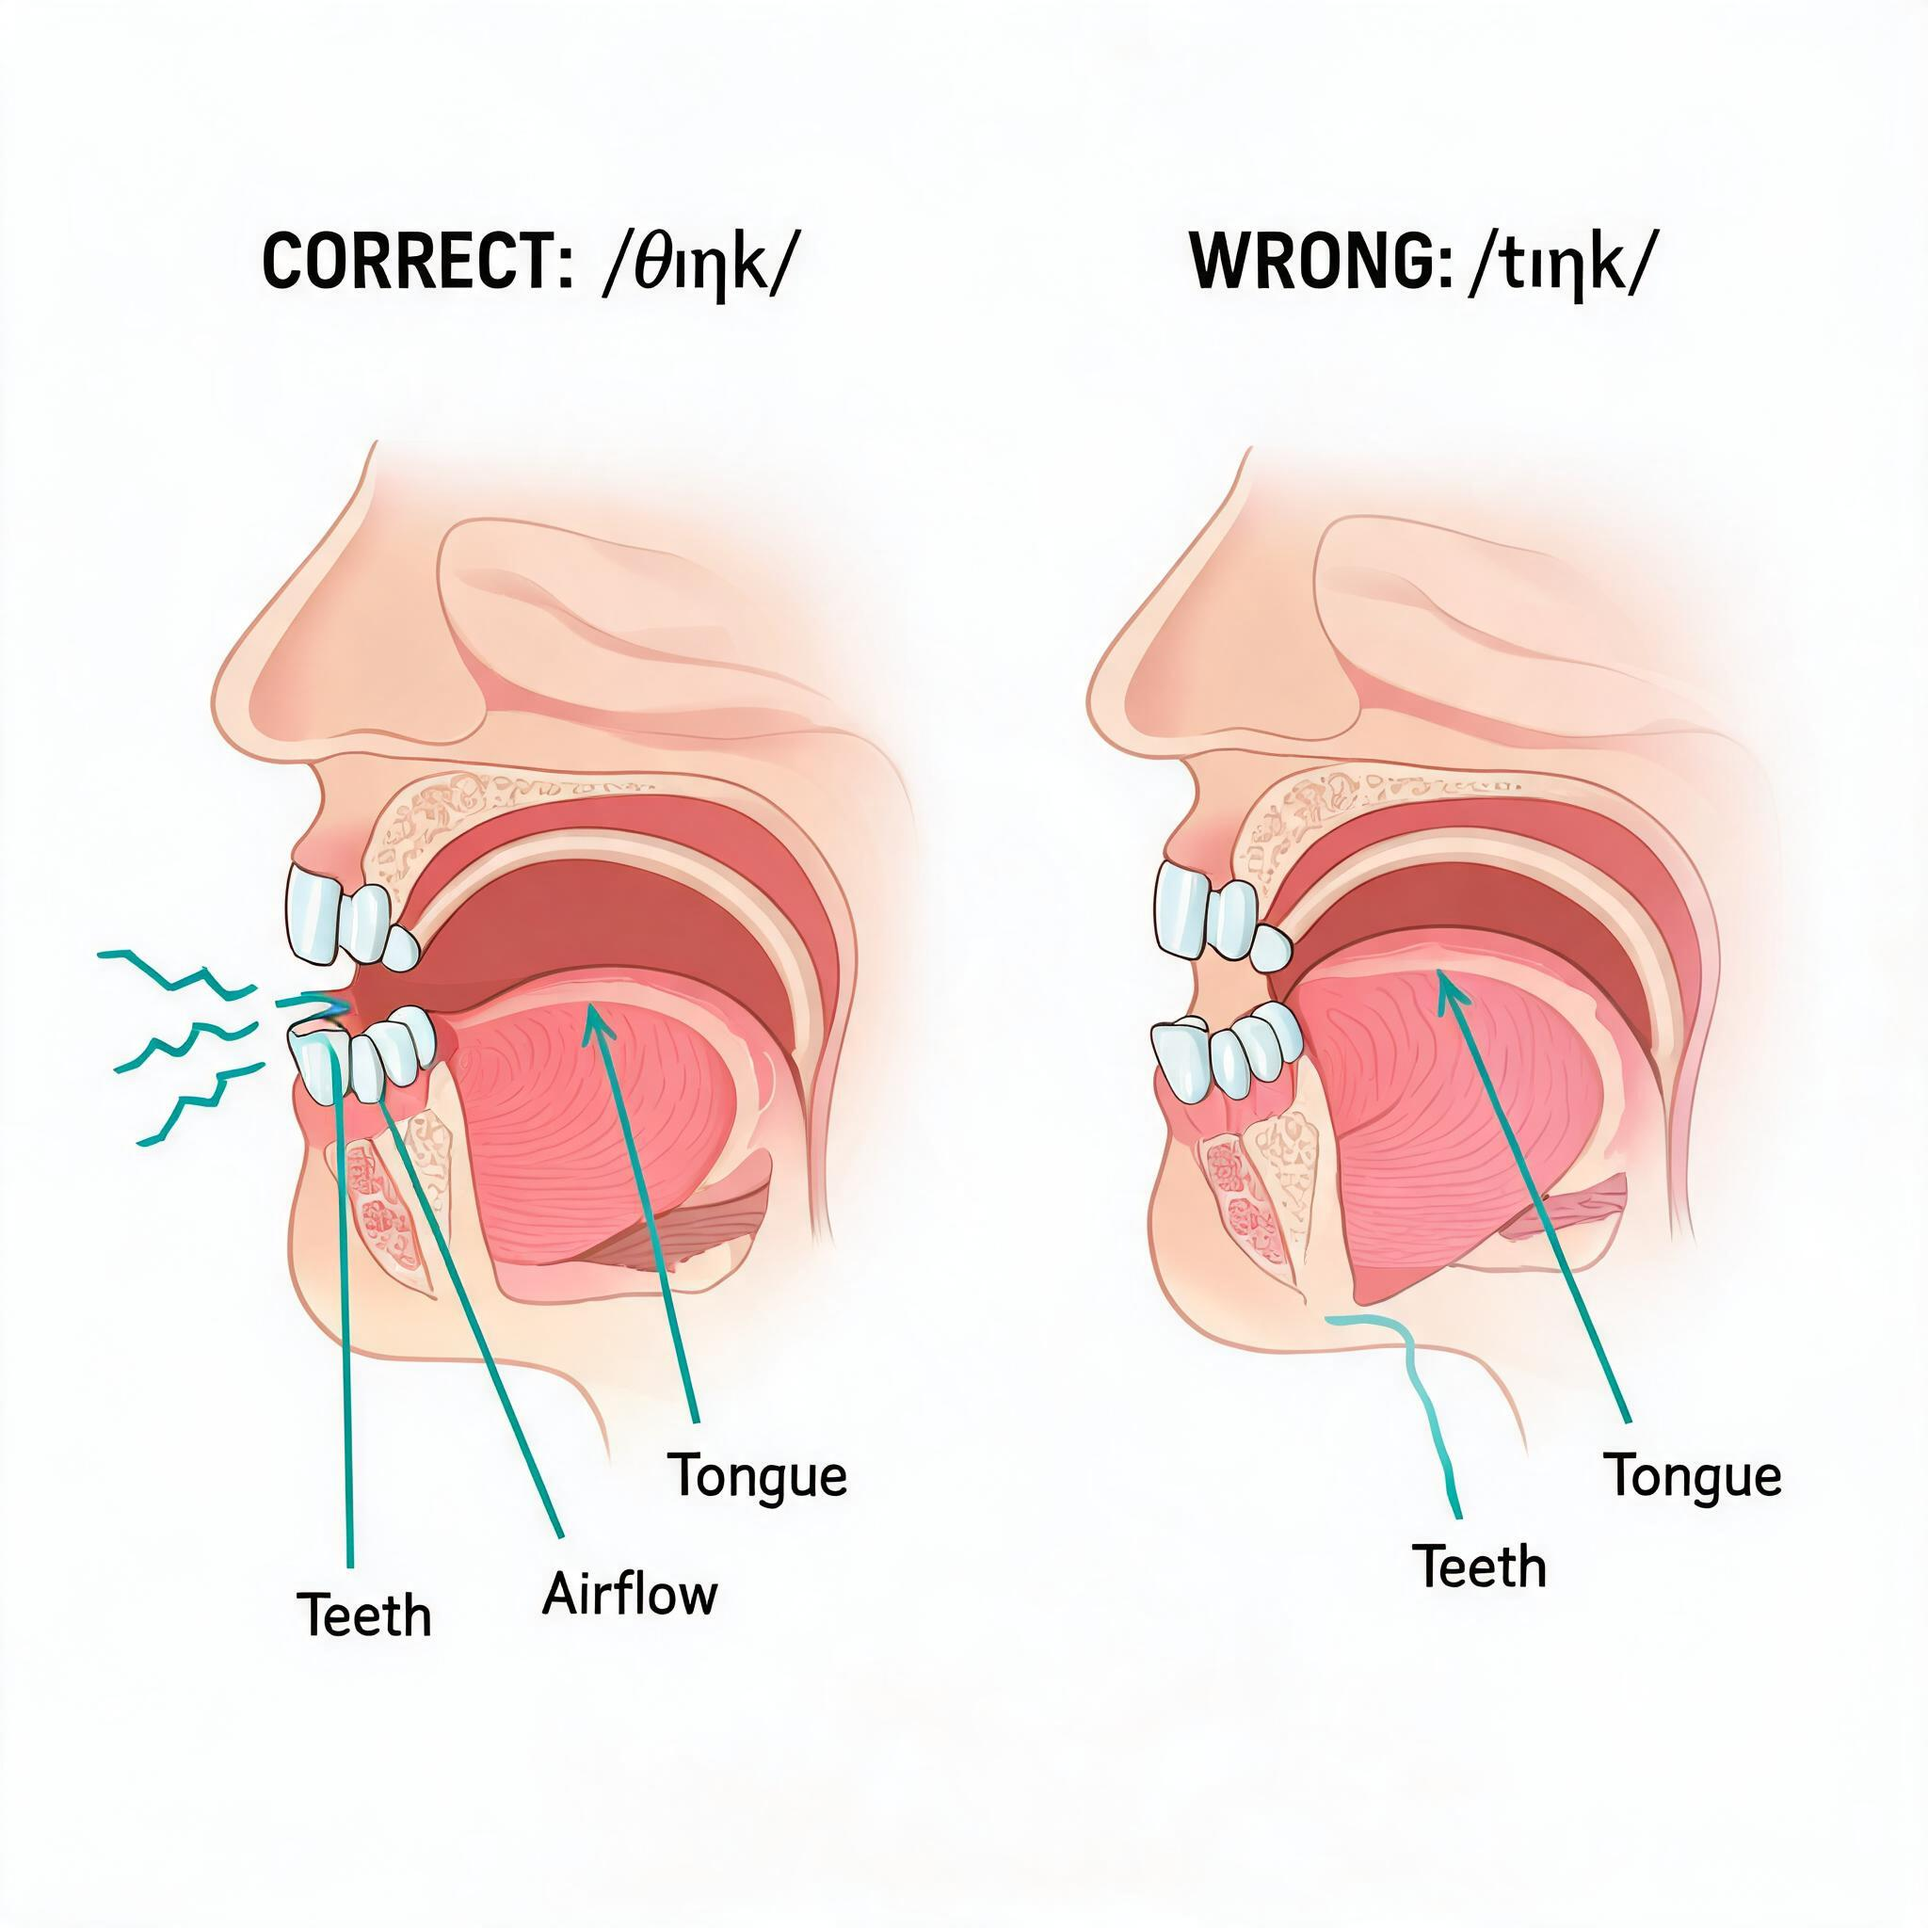
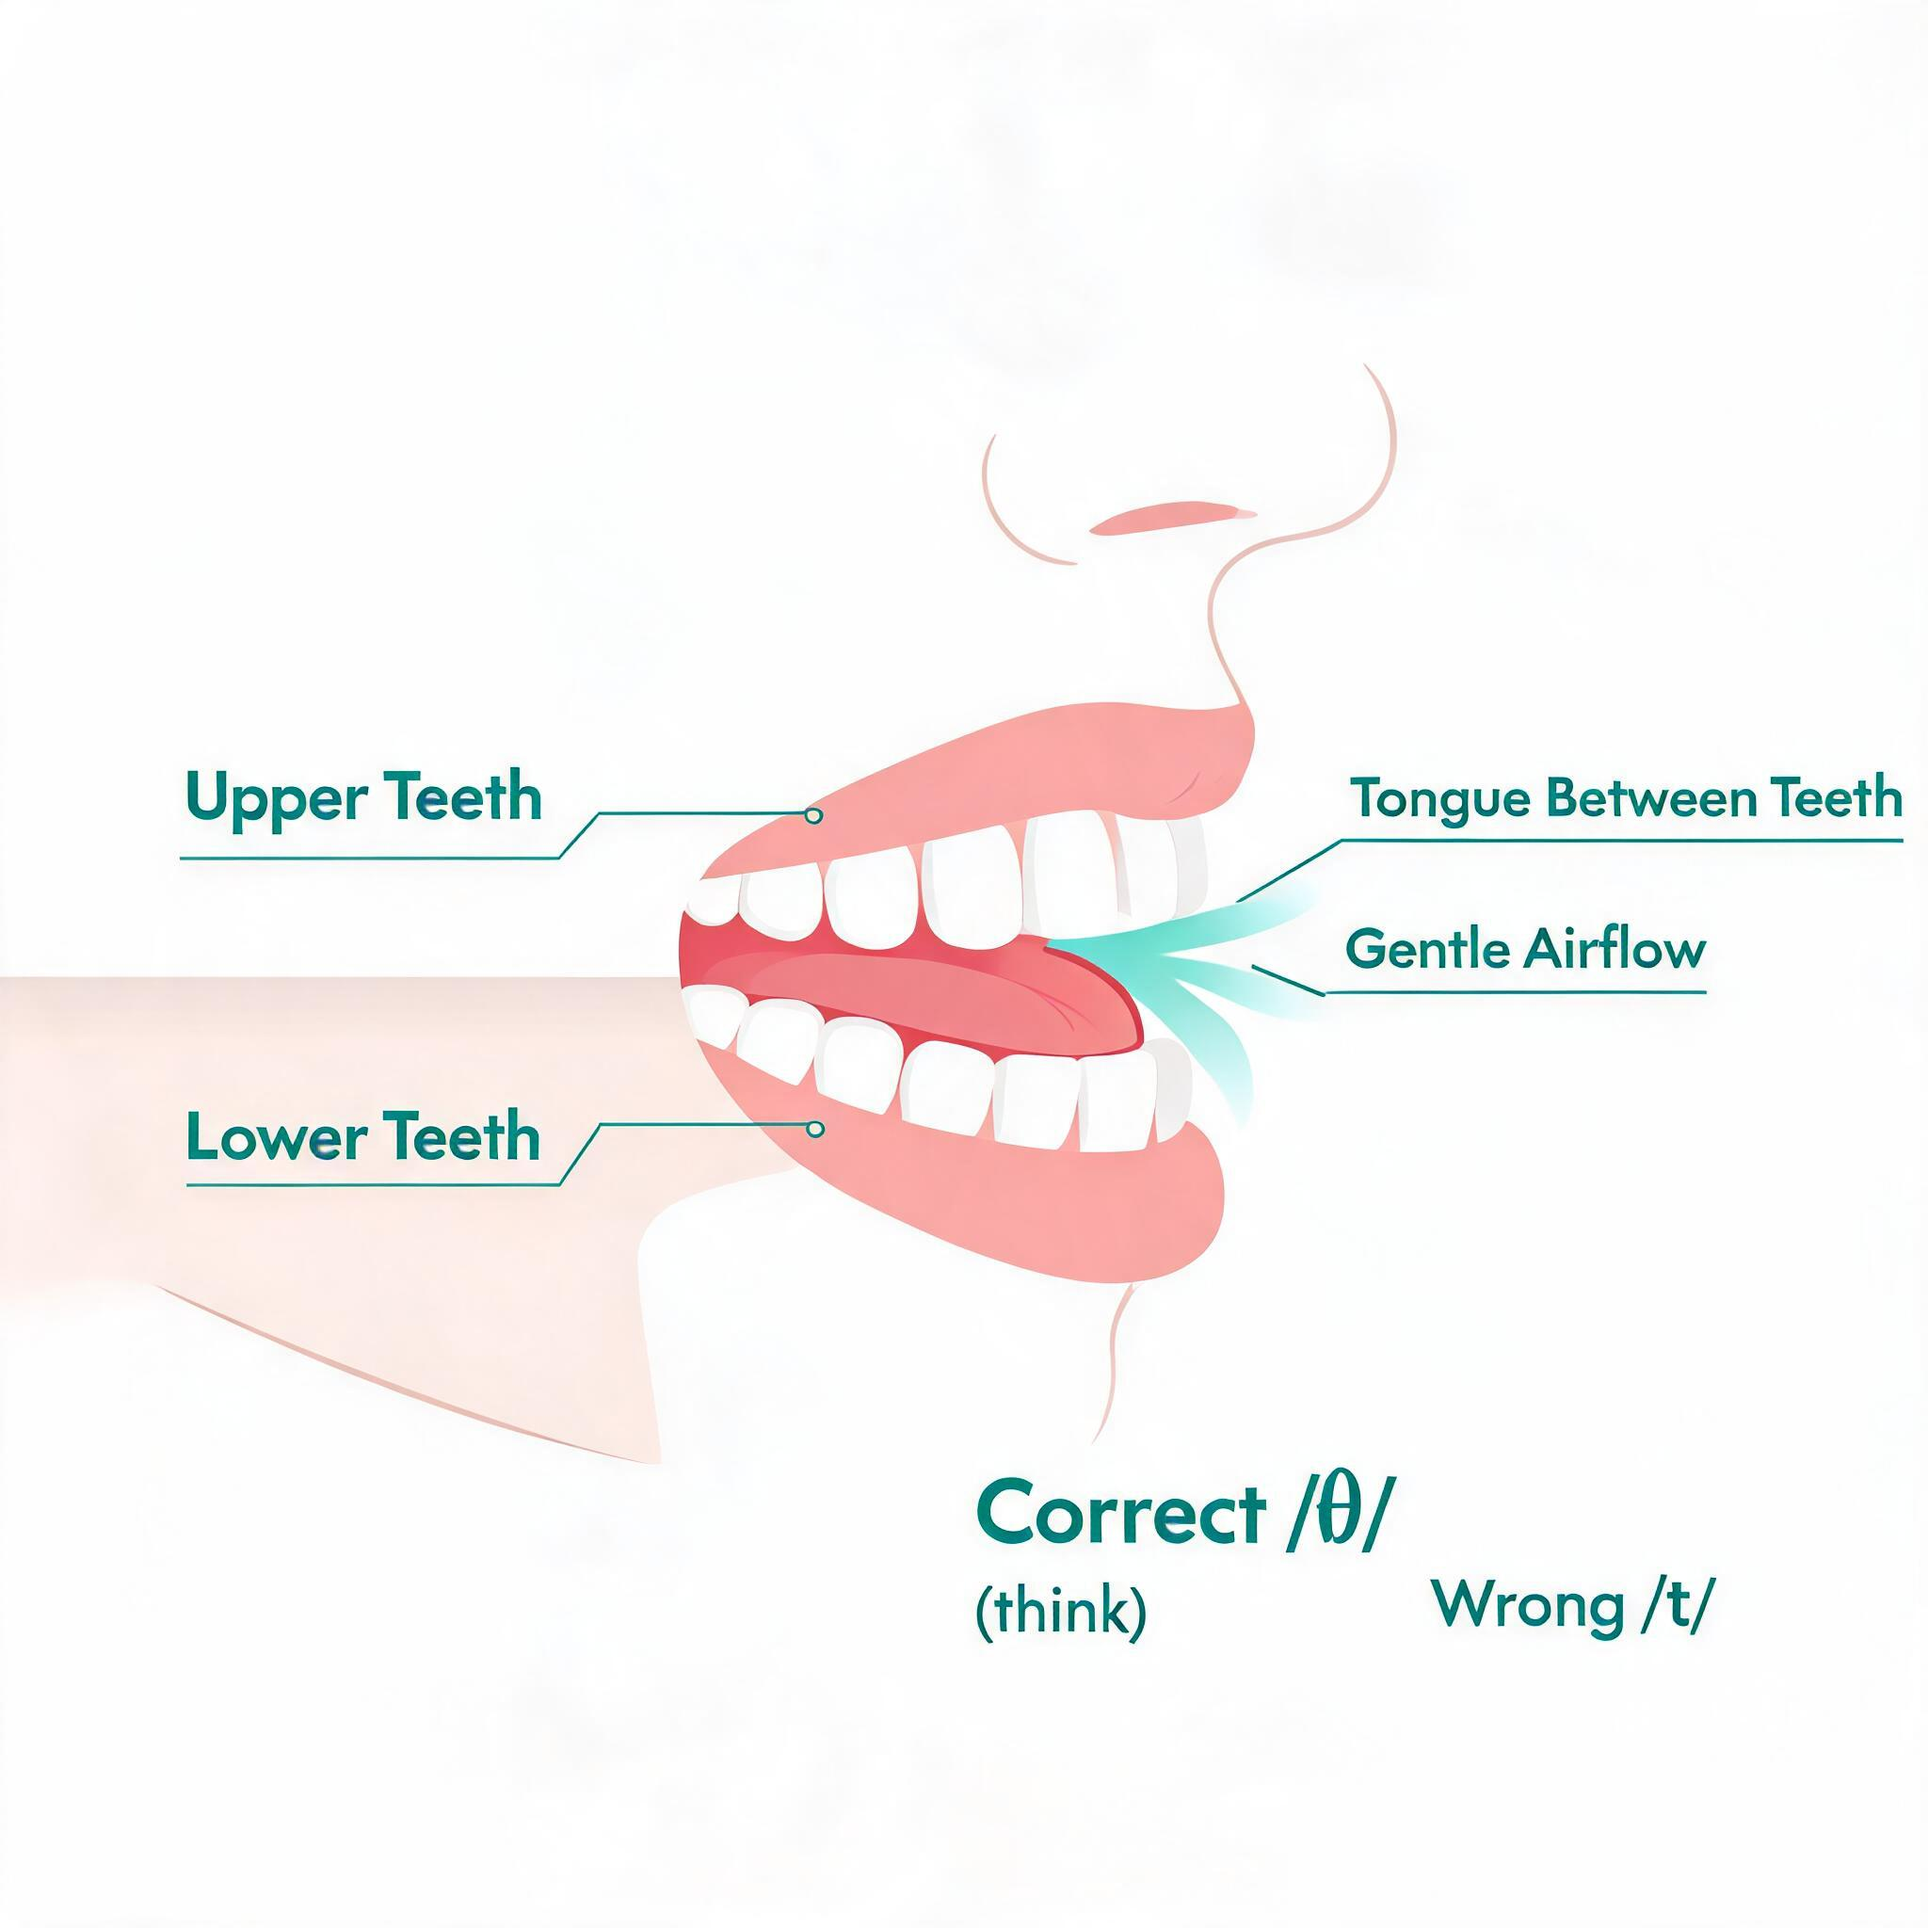
Phat-am: mouth cross-section English labels inside image (Upper/Tongue Between Teeth/Gentle Airflow), no arrows — per feedback

diff --git a/vi/phat-am/think/index.html b/vi/phat-am/think/index.html
@@ -58,18 +58,10 @@
     <button type="button" class="ipa-play" data-aud="/audio/us/think.m4a" aria-label="Nghe giọng Mỹ">🔊 Mỹ</button>
     <button type="button" class="ipa-play" data-aud="/audio/gb/think.m4a" aria-label="Nghe giọng Anh">🔊 Anh</button>
   </div>
-  <div style="margin:16px 0;background:#f9fafb;border:1px solid #e5e7eb;border-radius:12px;padding:16px">
-      <div style="font-size:11px;font-weight:700;letter-spacing:0.06em;color:#0f766e">HOW TO SAY /θ/ think</div>
-      <div style="font-size:13px;color:#111110;margin-top:8px;line-height:1.7">
-        Place tongue tip lightly between upper and lower teeth.<br>
-        Blow air gently without voice.<br>
-        Keep teeth slightly open — do not press tongue against gum.
-      </div>
-      <div style="margin-top:10px;display:flex;gap:8px;flex-wrap:wrap">
-        <span style="background:#fef2f2;color:#991b1b;font-size:11px;padding:5px 10px;border-radius:6px">Wrong: /tɪŋk/ — tongue behind teeth</span>
-        <span style="background:#ecfdf5;color:#065f46;font-size:11px;padding:5px 10px;border-radius:6px">Correct: /θɪŋk/ — tongue between teeth</span>
-      </div>
-    </div>
+  <figure style="margin:16px 0;background:#ffffff;border:1px solid #e5e7eb;border-radius:12px;overflow:hidden">
+      <img src="/vi/phat-am/think/mouth-th.jpg" srcset="/vi/phat-am/think/mouth-th-480.webp 480w" sizes="(max-width: 640px) 100vw, 480px" alt="Mouth cross-section for /θ/ think — tongue between teeth, gentle airflow — English labels inside image" width="480" height="480" loading="lazy" decoding="async" style="width:100%;height:auto;display:block">
+      <figcaption style="padding:8px 12px;background:#f9fafb;border-top:1px solid #e5e7eb;font-size:11px;color:#6b7280">English labels inside image: Upper Teeth / Tongue Between Teeth / Gentle Airflow / Lower Teeth</figcaption>
+    </figure>
     </div>
   <audio id="ipa-player" preload="none"></audio>
   <script>(function(){var pl=document.getElementById('ipa-player');if(!pl)return;document.querySelectorAll('.ipa-play').forEach(function(b){b.addEventListener('click',function(){pl.src=b.getAttribute('data-aud');pl.play();});});})();</script>
